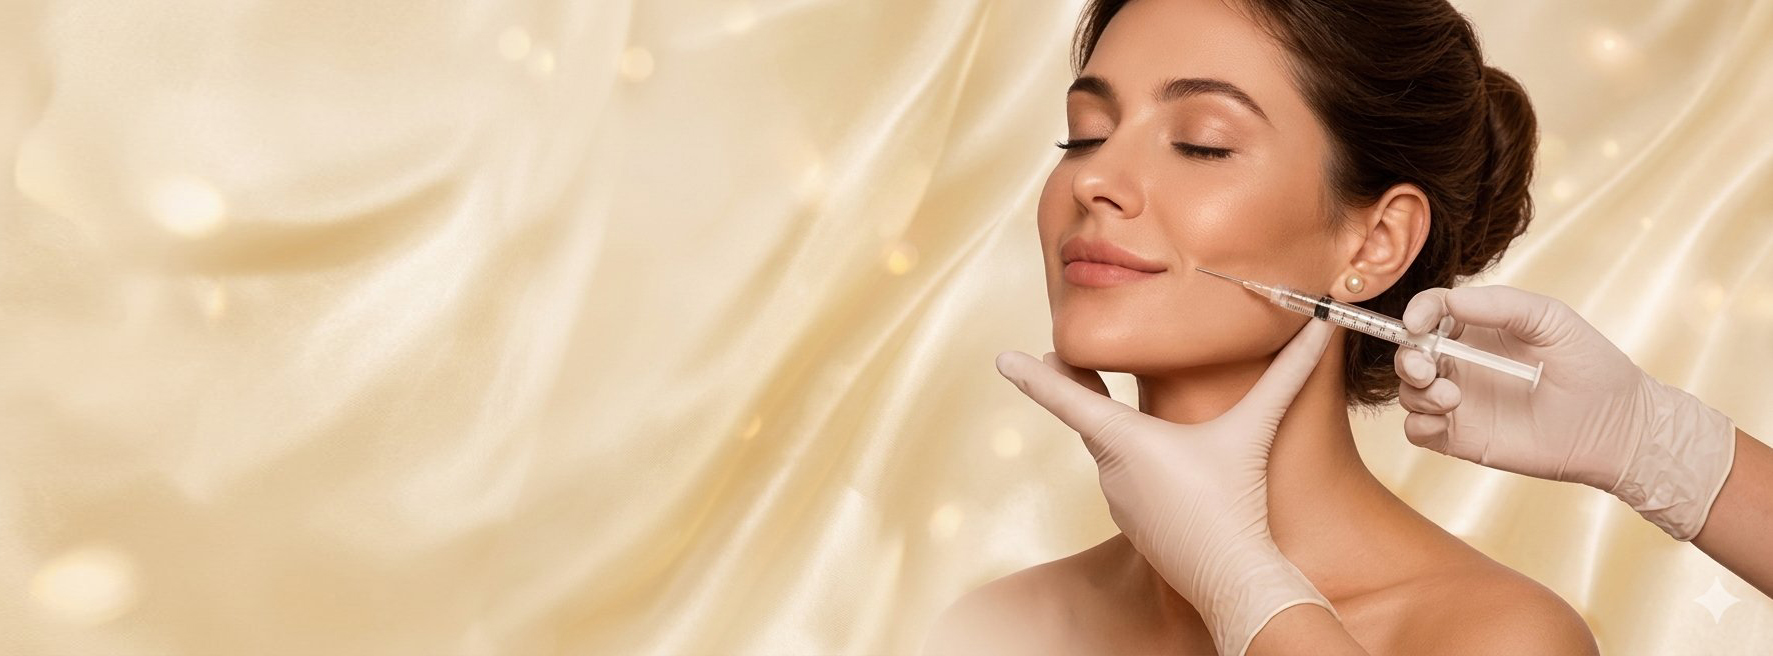
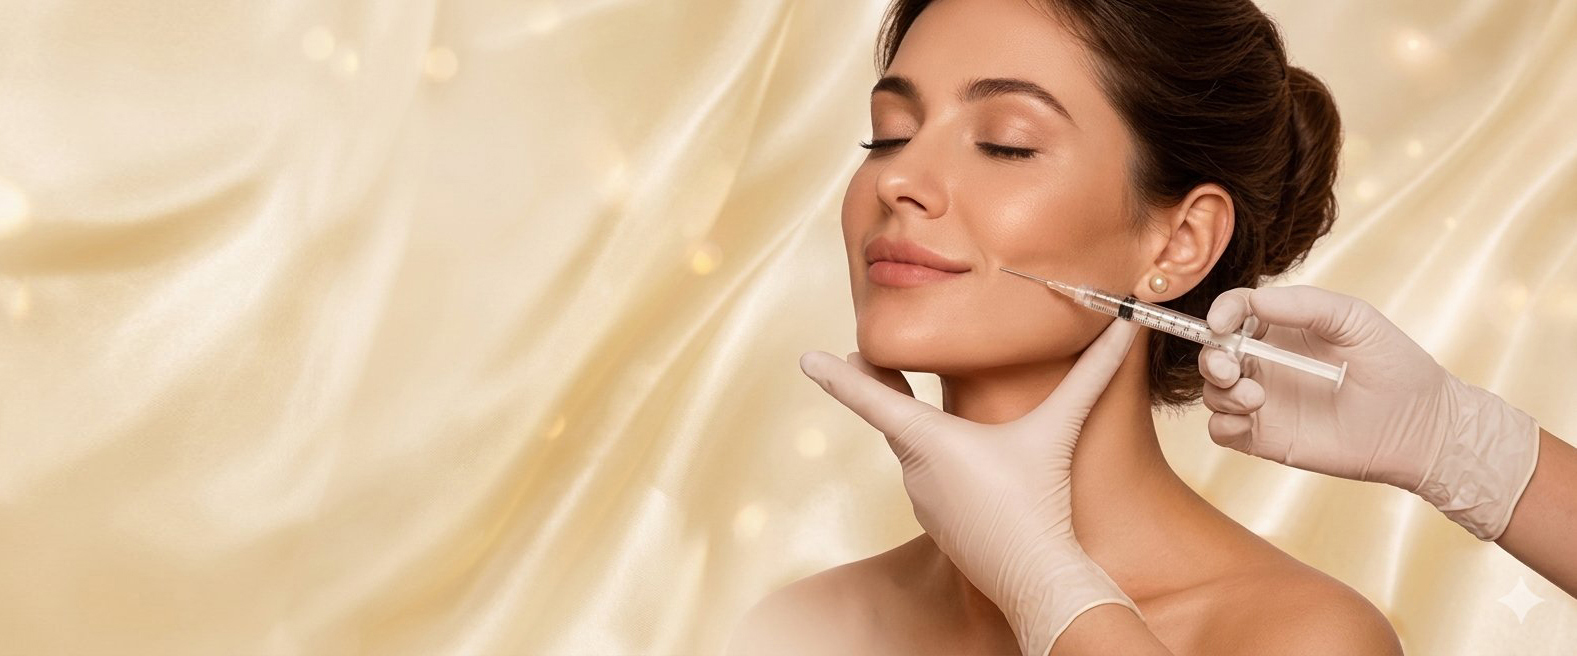
correcao v ok

diff --git a/Style/style.css b/Style/style.css
@@ -259,7 +259,7 @@ h6 {
     padding-top: 120px;
     /* offset for fixed header */
     padding-bottom: 3rem;
-    min-height: 80vh;
+    min-height: 90vh;
     background-size: cover;
     background-position: center;
     background-repeat: no-repeat;
@@ -294,7 +294,8 @@ h6 {
 .hero-features {
     background-color: transparent;
     padding: 0;
-    margin-top: 3rem;
+    margin-top: 1rem;
+    margin-bottom: 1rem;
 }
 
 .features-container {
@@ -969,6 +970,15 @@ h6 {
         grid-template-columns: repeat(2, 1fr);
     }
 
+    .hero {
+    
+    background-size: cover;
+    background-position: center;
+    background-repeat: no-repeat;
+
+    
+}
+
     .hero-container {
         grid-template-columns: 1fr;
         text-align: left;
@@ -1055,13 +1065,19 @@ h6 {
 
 
 /* hero mobile icones */
- 
+  .hero-mobile-icons{
+    display: flex;
+    justify-content: center;
+    max-width: 100%;
+    padding: 0% 2%;
+
+ }
 
 @media (max-width: 750px) {
 
     .hero-features {
         display: block; /* remove o display:none */
-        margin-top: 2rem;
+        
     }
 
     .features-container {
@@ -1081,7 +1097,7 @@ h6 {
 
         max-width: none;
 
-        gap: 0.4rem;
+       
     }
 
     .feature-item i {

diff --git a/index.html b/index.html
@@ -75,7 +75,7 @@
             </div>
         </section>
 
-        <!--section class="hero_mobile-icons">
+        <section class="hero-mobile-icons">
               <div class="hero-features">
                         <div class="features-container">
                             <div class="feature-item"><i class="ph ph-user-focus"></i><span>Atendimento
@@ -88,7 +88,7 @@
                                     confiança</span></div>
                         </div>
                     </div>
-        </section-->
+        </section>
 
         <!-- 3. Procedimentos em Destaque -->
         <section class="procedimentos-destaque" id="procedimentos">